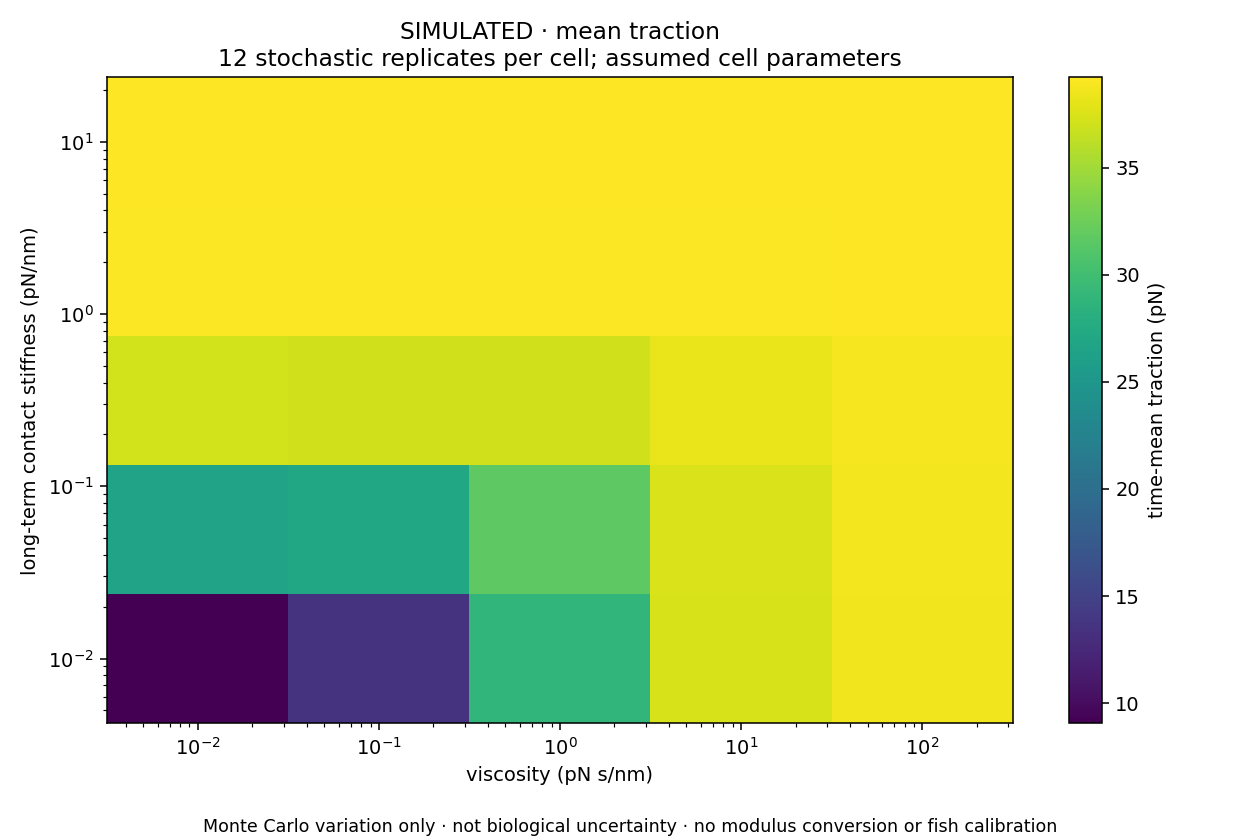
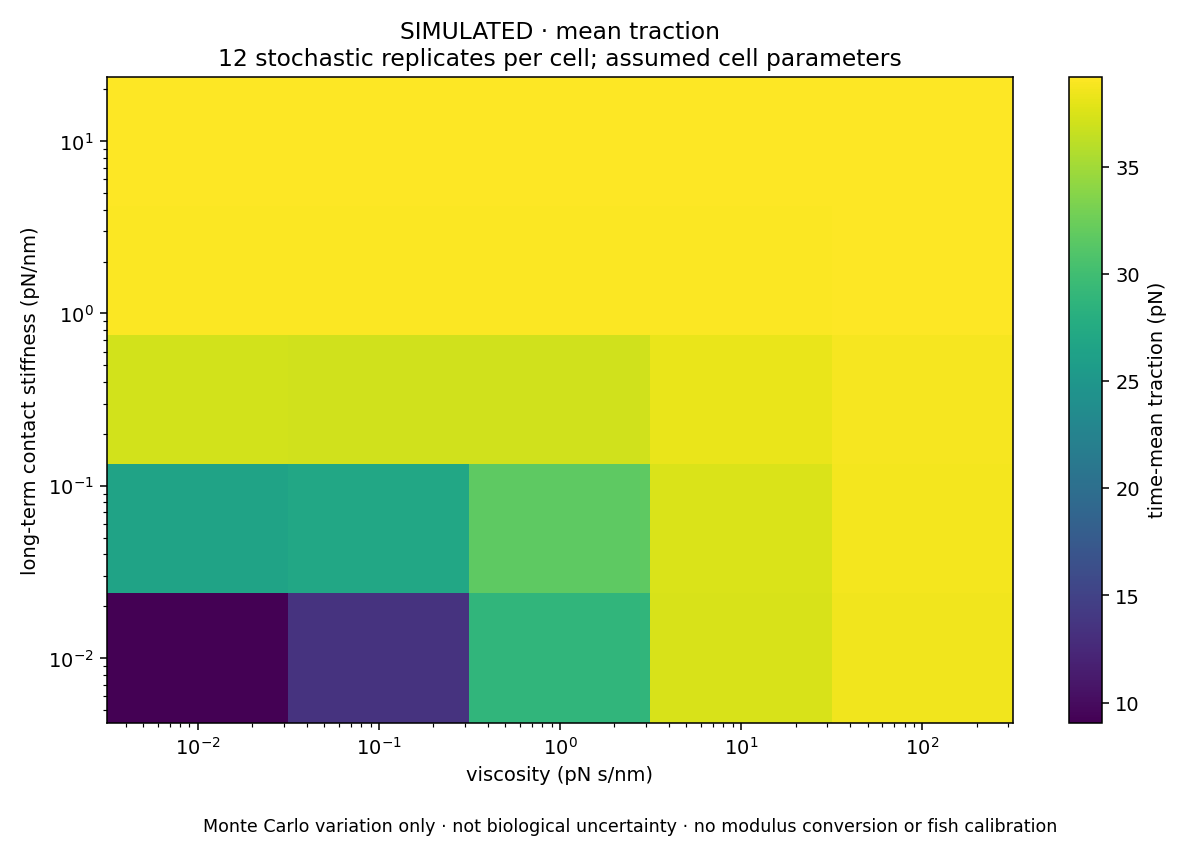
Keep logarithmic response-surface axis labels visible
Render the existing numerical sweep with a tight output bounding box. Simulation bytes remain from the prior numerical receipt; the separate render receipt captures this code change. Inspected resulting image, checked 180-frame 1280x720 H.264 video with ffprobe, and reran 13 targeted tests plus ruff.

Tested against base commit 4c7bd63ba86da45f8221a573e0cca619945d22c4

Changed region(s): [[0.0, 0.0, 0.9975, 0.9286], [0.1559, 0.9595, 0.904, 0.9905]]

diff --git a/studio/engineering/mechanobio/render.py b/studio/engineering/mechanobio/render.py
@@ -96,7 +96,7 @@ def render(directory):
     fig.colorbar(image, ax=ax, label="time-mean traction (pN)")
     fig.text(0.5, 0.01, "Monte Carlo variation only · not biological uncertainty · no modulus conversion or fish calibration", ha="center", fontsize=9)
     fig.tight_layout(rect=(0, 0.04, 1, 1))
-    fig.savefig(root / "response-surface.png")
+    fig.savefig(root / "response-surface.png", bbox_inches="tight", pad_inches=0.15)
     plt.close(fig)
     manifest = {"schema": "frontier.mechanobio.render-manifest/1", "evidence_kind": "render_of_simulation",
                 "input_trajectory": artifact(trajectory_path, "input"),
